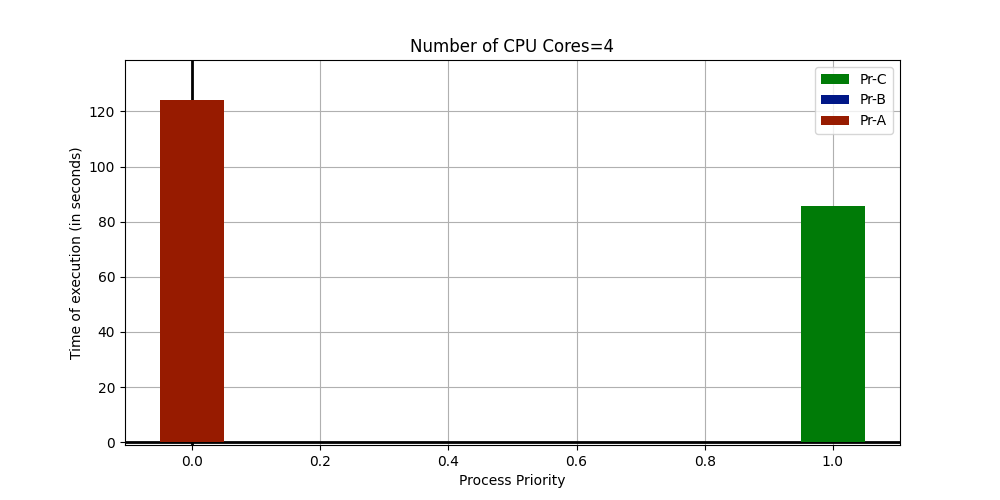
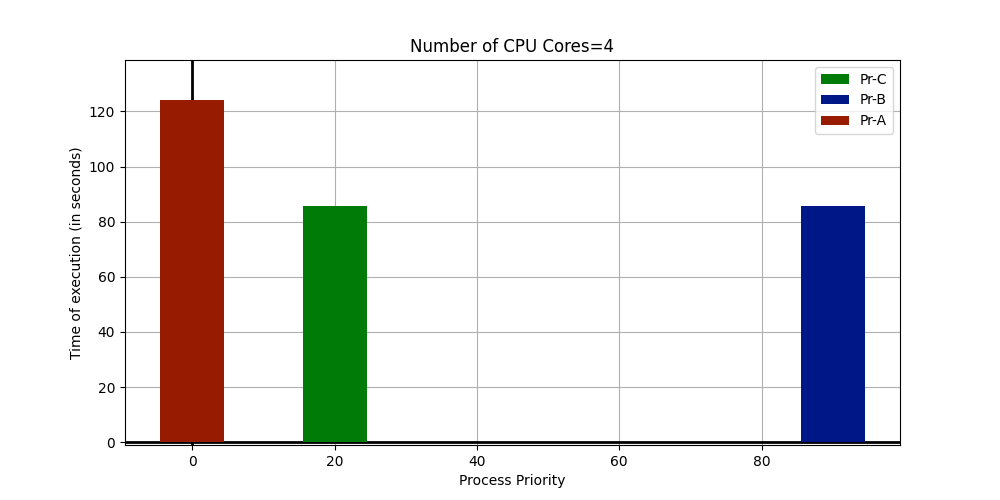
Updated plots

diff --git a/Assignment-2/1/1.2/Benchmarks/plotter.py b/Assignment-2/1/1.2/Benchmarks/plotter.py
@@ -80,9 +80,9 @@ def plot3() -> None:
     benchmarks = get_benchmarks()
     Pr_A, Pr_B, Pr_C = get_process_times(benchmarks)
 
-    A_priorities = [0, 0, 0, 0, 0, 0, 0, 0, 0, 0]
-    B_priorities = [1, 10, 10, 80, 60, 40, 40, 40, 80, 99]
-    C_priorities = [1, 1, 20, 40, 40, 40, 60, 80, 80, 80]
+    A_priorities = [0, 0, 0, 0, 0, 0]
+    B_priorities = [90, 50, 10, 40, 99, 10]
+    C_priorities = [20, 20, 60, 40, 10, 99]
 
     for i in range(len(benchmarks)):
         set_figure()
